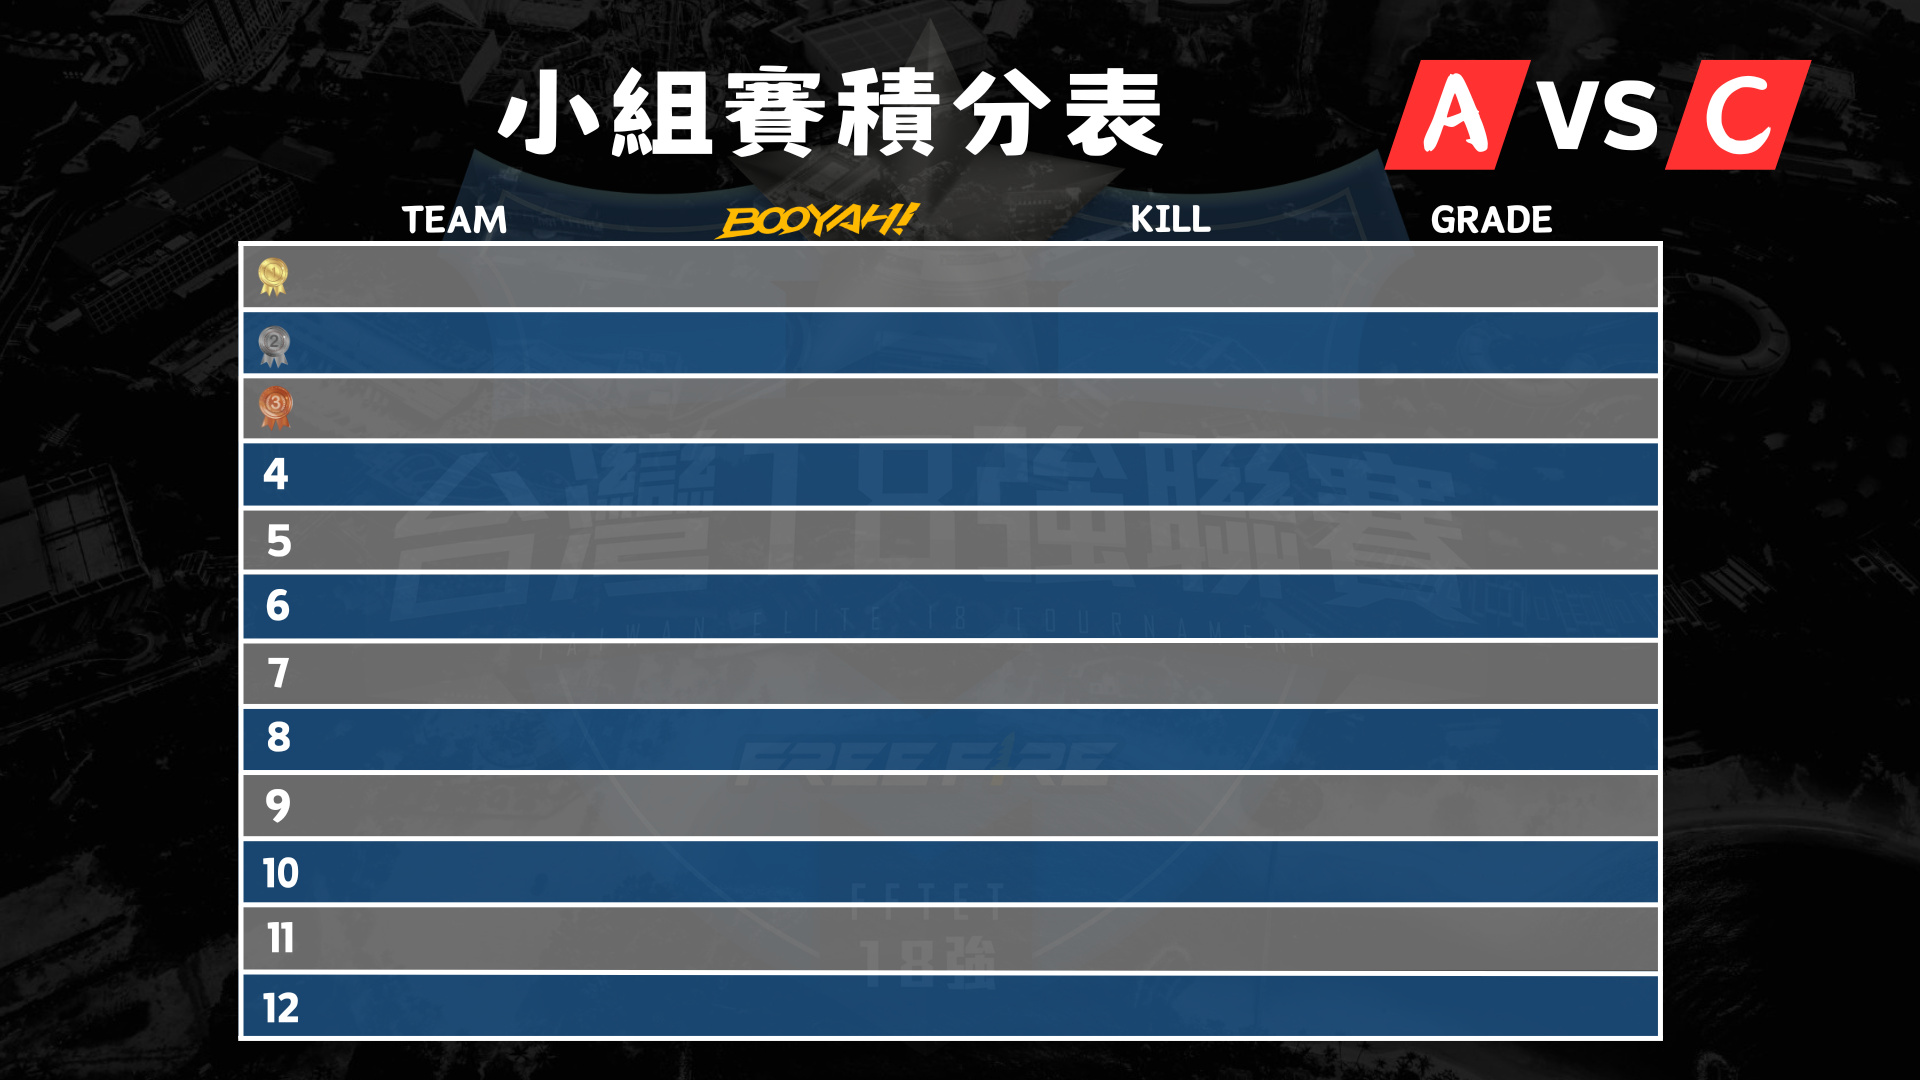
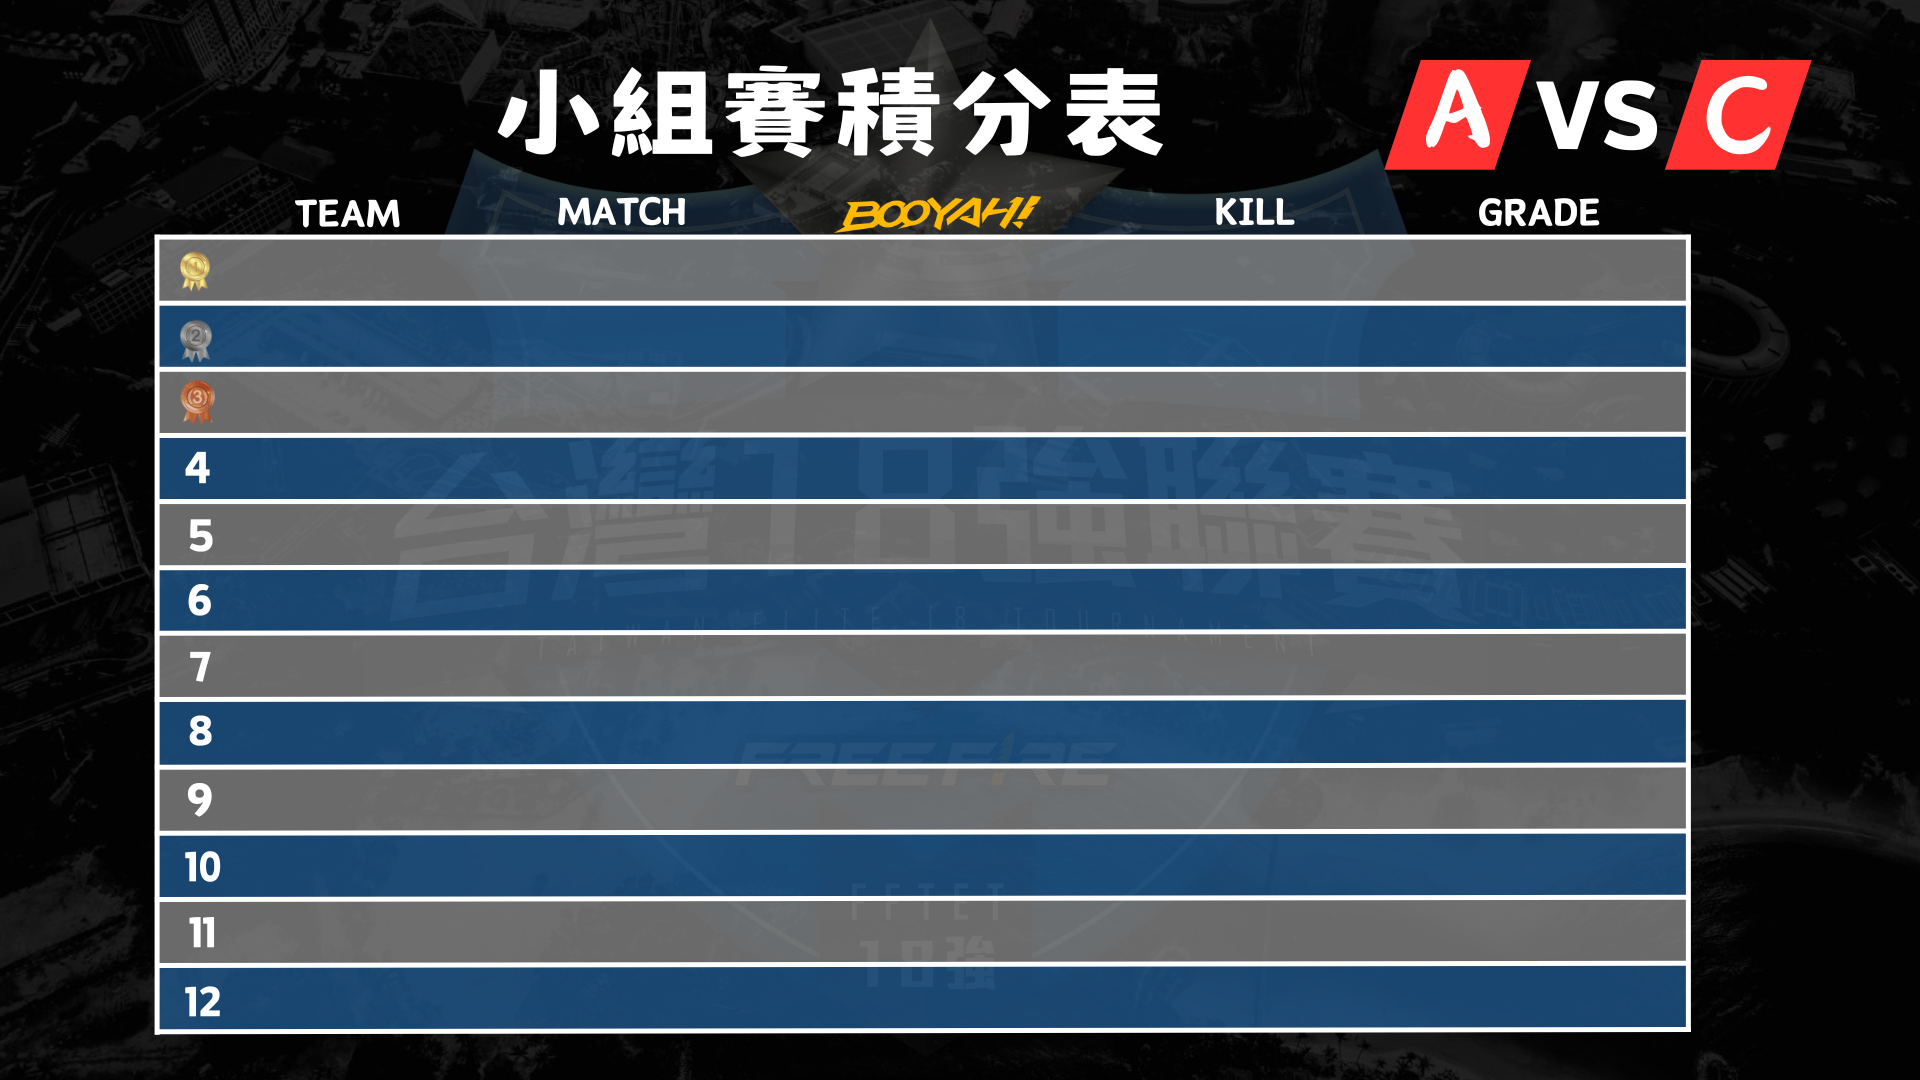
V??

Changed region(s): [[0.0625, 0.1833, 0.9062, 0.9778], [0.75, 0.0611, 0.7812, 0.1222]]

diff --git a/top18.html b/top18.html
@@ -160,16 +160,21 @@ video {
 }	
 	
 #table td:nth-child(3) {
-    padding-left: 230px; /* 左邊間距 */
+    padding-left: 150px; /* 左邊間距 */
     
 }
 	
 #table td:nth-child(4) {
-    padding-left: 165px; /* 左邊間距 */
-	padding-right: 150px; /* 右邊間距 */
+    padding-left: 160px; /* 左邊間距 */
+
     
 }
 	
+#table td:nth-child(5) {
+    padding-left: 145px; /* 左邊間距 */
+	padding-right: 210px; /* 右邊間距 */
+    
+}
 	
 	#table img {
     max-width: 38px; /* 調整圖片最大寬度 */
@@ -189,7 +194,7 @@ video {
  
 
 	
-	<div class="Excel" style="padding-top: 150px;padding-left:355px;">
+	<div class="Excel" style="padding-top: 147px;padding-left:295px;">
   <table id="table">
         <thead>
             <tr>

diff --git a/AB.html b/AB.html
@@ -160,13 +160,18 @@ video {
 }	
 	
 #table td:nth-child(3) {
-    padding-left: 210px; /* 左邊間距 */
+    padding-left: 170px; /* 左邊間距 */
     
 }
 	
 #table td:nth-child(4) {
-    padding-left: 210px; /* 左邊間距 */
-	padding-right: 180px; /* 右邊間距 */
+    padding-left: 180px; /* 左邊間距 */
+	
+    
+}
+#table td:nth-child(5) {
+    padding-left: 190px; /* 左邊間距 */
+	padding-right: 220px; /* 右邊間距 */
     
 }
 	
@@ -189,7 +194,7 @@ video {
  
 
 	
-	<div class="Excel" style="padding-top: 245px;padding-left:325px;">
+	<div class="Excel" style="padding-top: 235px;padding-left:225px;">
   <table id="table">
         <thead>
             <tr>

diff --git a/AC.html b/AC.html
@@ -160,13 +160,18 @@ video {
 }	
 	
 #table td:nth-child(3) {
-    padding-left: 210px; /* 左邊間距 */
+    padding-left: 140px; /* 左邊間距 */
     
 }
 	
 #table td:nth-child(4) {
-    padding-left: 210px; /* 左邊間距 */
-	padding-right: 180px; /* 右邊間距 */
+    padding-left: 180px; /* 左邊間距 */
+	
+    
+}
+#table td:nth-child(5) {
+    padding-left: 190px; /* 左邊間距 */
+	padding-right: 220px; /* 右邊間距 */
     
 }
 	
@@ -189,7 +194,7 @@ video {
  
 
 	
-	<div class="Excel" style="padding-top: 245px;padding-left:325px;">
+	<div class="Excel" style="padding-top: 235px;padding-left:225px;">
   <table id="table">
         <thead>
             <tr>

diff --git a/BC.html b/BC.html
@@ -160,13 +160,18 @@ video {
 }	
 	
 #table td:nth-child(3) {
-    padding-left: 210px; /* 左邊間距 */
+    padding-left: 140px; /* 左邊間距 */
     
 }
 	
 #table td:nth-child(4) {
-    padding-left: 210px; /* 左邊間距 */
-	padding-right: 180px; /* 右邊間距 */
+    padding-left: 180px; /* 左邊間距 */
+	
+    
+}
+#table td:nth-child(5) {
+    padding-left: 190px; /* 左邊間距 */
+	padding-right: 220px; /* 右邊間距 */
     
 }
 	
@@ -189,7 +194,7 @@ video {
  
 
 	
-	<div class="Excel" style="padding-top: 245px;padding-left:325px;">
+	<div class="Excel" style="padding-top: 235px;padding-left:225px;">
   <table id="table">
         <thead>
             <tr>

diff --git a/top12.html b/top12.html
@@ -160,13 +160,18 @@ video {
 }	
 	
 #table td:nth-child(3) {
-    padding-left: 210px; /* 左邊間距 */
+    padding-left: 170px; /* 左邊間距 */
     
 }
 	
 #table td:nth-child(4) {
-    padding-left: 210px; /* 左邊間距 */
-	padding-right: 180px; /* 右邊間距 */
+    padding-left: 180px; /* 左邊間距 */
+	
+    
+}
+#table td:nth-child(5) {
+    padding-left: 190px; /* 左邊間距 */
+	padding-right: 220px; /* 右邊間距 */
     
 }
 	
@@ -189,7 +194,7 @@ video {
  
 
 	
-	<div class="Excel" style="padding-top: 245px;padding-left:325px;">
+	<div class="Excel" style="padding-top: 235px;padding-left:225px;">
   <table id="table">
         <thead>
             <tr>
